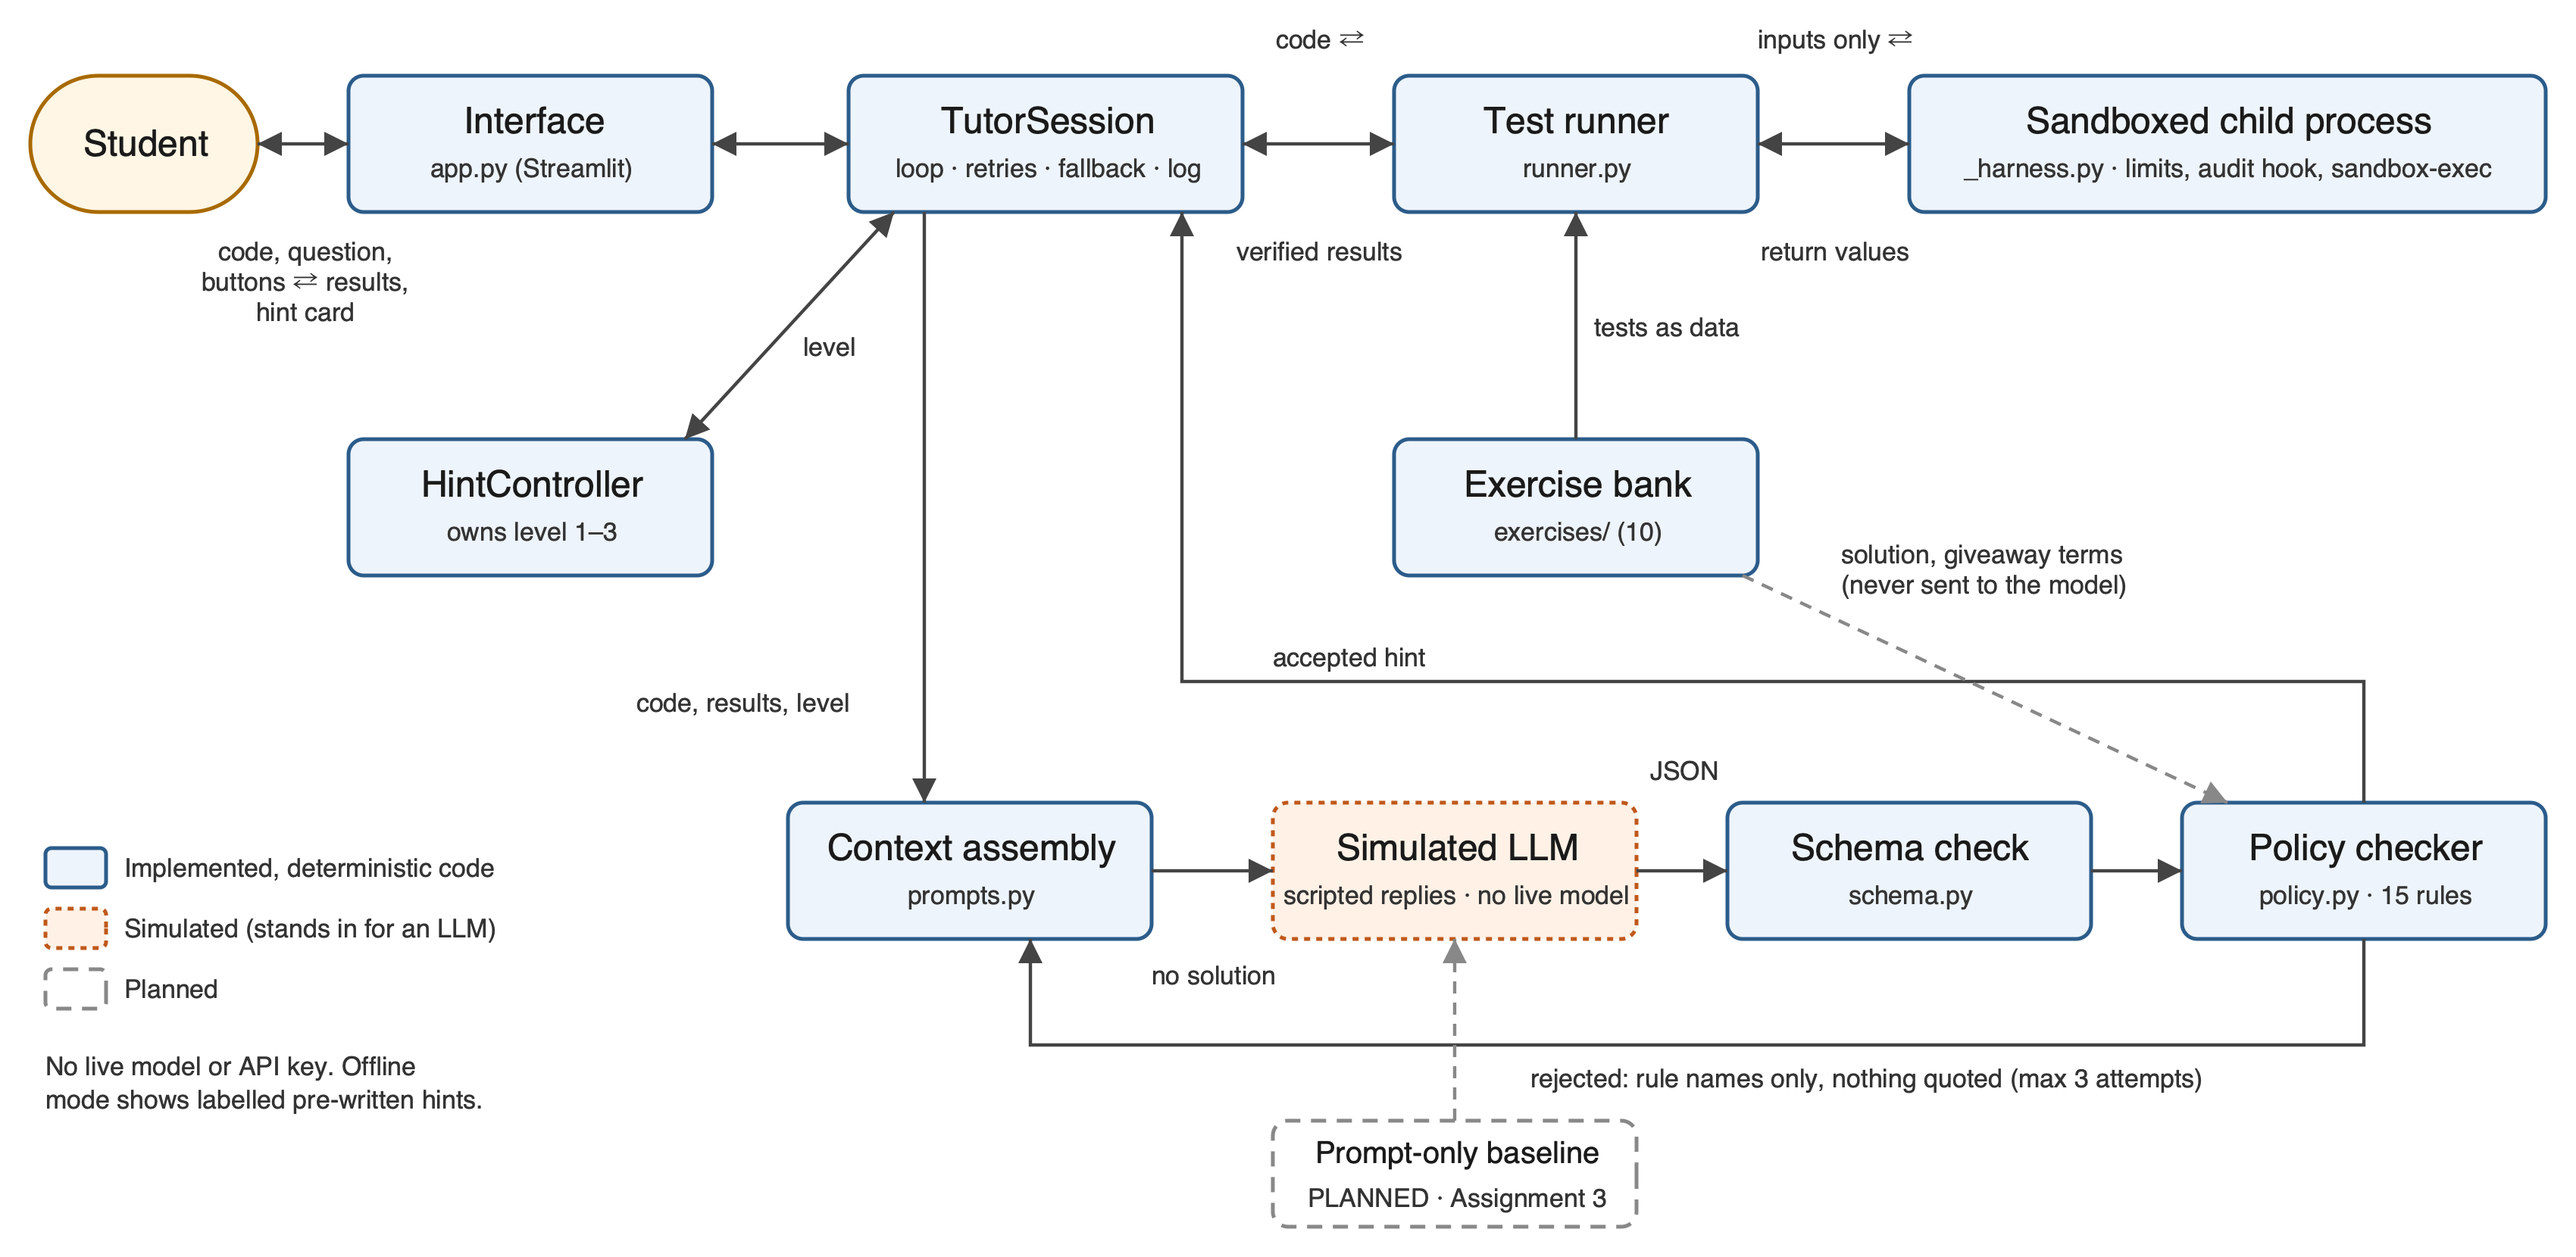
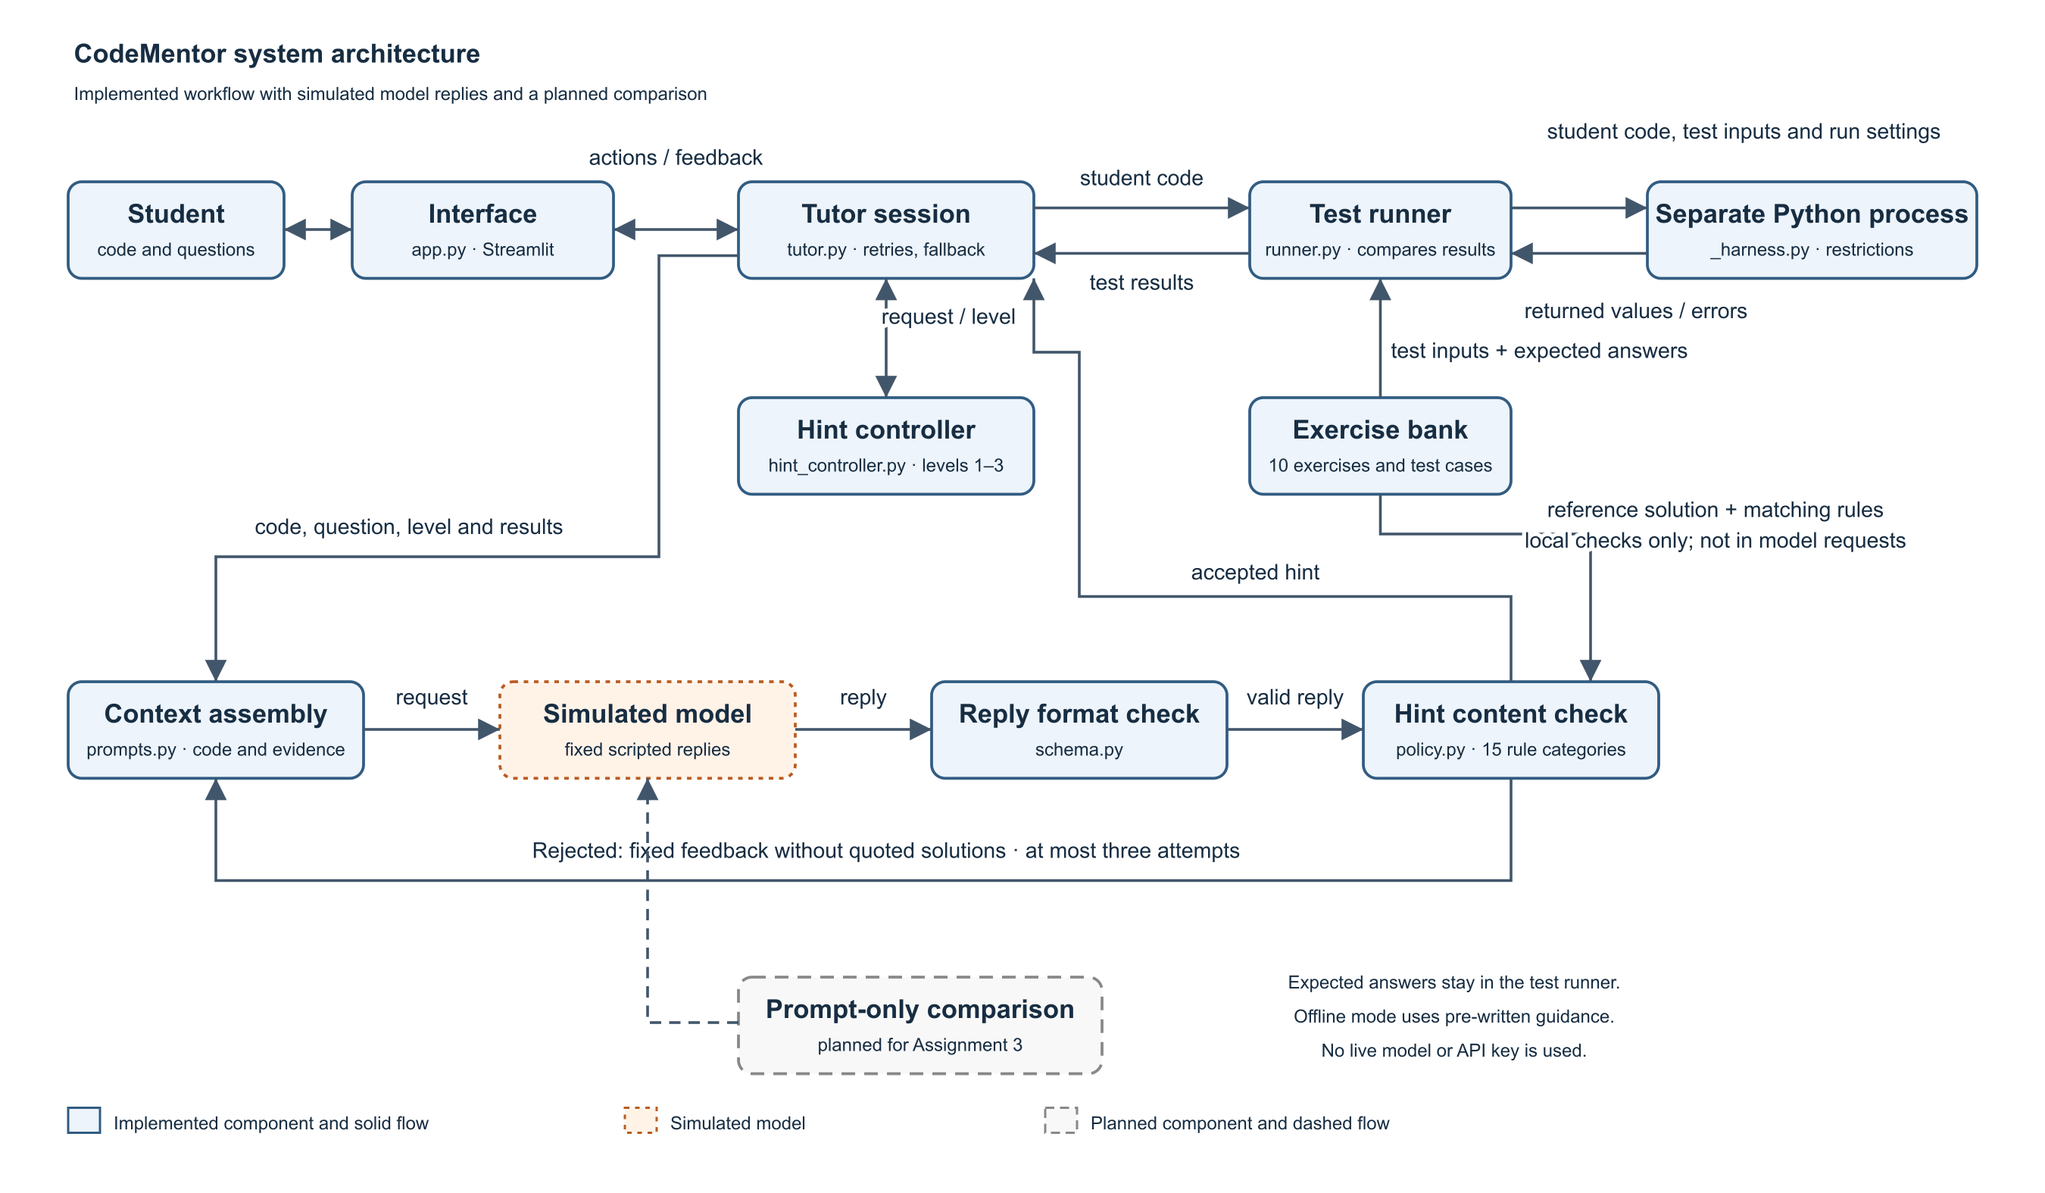
Clarify interface limits and align project documentation

diff --git a/app.py b/app.py
@@ -114,10 +114,10 @@ def render_hint(record: HintRecord, latest: bool) -> None:
         if record.student_message:
             st.markdown(f"🙋 **You asked:** {record.student_message}")
         if "solution_request" in record.policy_flags:
-            st.warning("🙅 CodeMentor doesn't give complete solutions, even when asked. "
+            st.warning("🙅 CodeMentor is designed to provide hints rather than complete solutions, but its checks may miss some disclosures. "
                        "You can ask for a more specific hint, or change your code and run the tests.")
         if "rule_override" in record.policy_flags:
-            st.warning("🔒 Messages can't change the hint level or the rules. The level only changes when you press the hint buttons.")
+            st.warning("🔒 Messages cannot override the hint rules. Use the buttons to request more detail; hints restart at Level 1 when the set of failing tests changes.")
         if record.source == SOURCE_SYSTEM:
             st.info(record.text)
             return
@@ -177,7 +177,7 @@ def main() -> None:
 
     with st.sidebar:
         st.markdown("## 🧭 CodeMentor")
-        st.caption("A Python debugging tutor that gives hints, not solutions.")
+        st.caption("A Python debugging tutor designed to guide you with hints.")
         by_id = {e.id: e for e in exercises}
         exercise = by_id[st.selectbox("Exercise", list(by_id), format_func=lambda i: f"{by_id[i].order}. {by_id[i].title}")]
         st.divider()

diff --git a/README.md b/README.md
@@ -2,7 +2,7 @@
 
 Code Mentors overall aim is a Python debugging tutor for beginners with three hint levels and execution results shown separately from AI interpretation. This Stage 3 snapshot includes the complete local prototype: exercises, test runner, hint checks, interface and repeatable demonstrations. Hints are pre-written or simulated using fixed replies.
 
-README prose word count: 1388 words (excludes fenced commands and the count line, includes headings/table text.)
+README prose word count: 1337 words (excludes fenced commands and the count line, includes headings/table text.)
 
 ## About this repository
 
@@ -62,33 +62,29 @@ The runner runs student code separately from the tutor and applies five checks a
 4. **Checks while running.** Python checks block selected actions including starting other programs and making network connections. File access is limited to the temporary run folder and files Python needs with an exception for the system file used to discard output. These checks do not provide complete protection against harmful code.
 5. **macOS protection.** The operating system adds restrictions on network access, launching other programs, changing files outside the temporary run folder and reading files in user home folders.
 
-## Development decisions
+## Development record
 
-- The expected answers are kept separate from the student code being run. The runner compares the returned answers with these expected results. This separation alone does not guarantee that deliberately harmful code cannot interfere with a result.
-- Tests check the restrictions by trying to launch another program, make a network connection, write a file and list user home folders.
-- The waiting time was shortened before stopping a test because code stuck in an endless loop took too long to report back.
+The prototype was developed locally before these imports. The commits group existing components; they do not represent the dates when each feature was first written.
 
-### Stage 2: hint controls and checks
+- [Stage 1](https://github.com/frontdev-arch/Code-Mentor/commit/d54cfbd): exercise bank and restricted runner; 18 tests passed.
+- [Stage 2](https://github.com/frontdev-arch/Code-Mentor/commit/3b03f05): hint levels, reply checks and exercise-bank tests; 135 tests passed.
+- [Stage 3](https://github.com/frontdev-arch/Code-Mentor/commit/970c068): interface, tutor workflow and scripted demonstrations; 159 tests passed.
 
-This import adds three components from the local prototype:
+The following records connect the main problems, decisions and checks. The named tests are in the linked files.
 
-- `codementor/hint_controller.py` manages three hint levels: concept, location and likely fault. More detail requires an explicit request. A change in which tests fail resets the next hint to the first level so that help does not carry over unchanged to a different problem.
-- `codementor/schema.py` checks that a reply contains the required information in the expected format. This catches incomplete or wrongly formatted replies before their content is checked.
-- `codementor/policy.py` checks hints for the requested level, solution disclosure, references to test results and unsupported claims. Rejection summaries avoid repeating text that could reveal an answer.
+| Problem and decision | Check and result |
+| --- | --- |
+| Student code could run indefinitely or access unrelated files. Runs were separated and restricted, with shorter waiting times to keep feedback responsive. | [Runner tests](tests/test_runner.py): `test_infinite_loop_times_out_per_test`, `test_runtime_layers_refuse_dangerous_operations` and `test_environment_secrets_are_not_visible_to_student_code` passed. These checks do not establish complete protection against malicious code. |
+| A reply could keep the correct level number while explaining too much. Wording checks were added and narrowed to allow useful Level 3 explanations. | [Policy tests](tests/test_policy.py): `test_level_meaning_is_checked_not_just_the_number` rejects the recorded examples; `test_level_3_may_still_explain_the_fault_and_suggest_a_direction` preserves an acceptable example. Both passed; other paraphrases may escape detection. |
+| Detailed rejection messages could repeat the solution to the student or in another model request. Fixed summaries replaced quoted offending text. | [Tutor tests](tests/test_tutor.py): `test_no_request_to_the_model_carries_the_solution_even_on_retries` and `test_rejection_shown_to_the_student_never_quotes_the_solution` passed. Detailed diagnostics remain in local logs. |
+| Citing a failing test could be mistaken for a correct diagnosis. The interface labels the citation separately and keeps the explanation unverified. | [Tutor tests](tests/test_tutor.py): `test_citing_a_failing_test_is_recorded_as_a_citation_not_as_support` passed. [The wrong-diagnosis demo](demo/wrong_diagnosis.json) deliberately shows this limitation. |
+| A hint could use old code, or retain too much detail after the problem changed. Code and questions are submitted together, changed code is tested again and changed failures reset the hint level. | [Tutor tests](tests/test_tutor.py): `test_changed_code_reruns_tests_before_the_hint` and `test_new_failing_set_resets_the_level` passed. Interface checks also exercised running code and requesting Levels 1–3 in offline and both scripted modes. |
 
-At the Stage 2 import, the expanded suite passed all 135 tests. It covers all ten exercise starters and reference solutions, pre-written hints, level changes and examples of acceptable and rejected replies. These checks make the components inspectable before the complete tutor workflow is imported.
+All 159 automated tests passed in the latest audit. These results cover the supplied cases, not every possible reply or user behaviour. No learner study has been carried out.
 
-### Stage 3: complete local interaction
+### Submission review corrections
 
-- `codementor/tutor.py` connects test results, hint levels and reply checks. It retries rejected replies and uses pre-written guidance when suitable replies are unavailable, so the interaction can continue.
-- `app.py` adds the interface. Code and questions are submitted together so a hint uses the current input. Test results appear separately from the tutor's interpretation. A reference to a failing test is labelled as a citation, not proof that the explanation is correct.
-- `codementor/providers.py` supplies fixed simulated replies, while `prompts.py` prepares the request information. Rejection feedback avoids repeating text that could reveal a solution.
-- `config.py` selects the mode and `eventlog.py` records runs and hint requests. Local records are saved in `logs/`, which Git ignores.
-- `demo/` includes a rejected solution followed by an acceptable hint, and a wrong diagnosis that cites a real failing test. These demonstrate both the checks and their limits.
-
-The complete suite passed **159 tests** after this import. Added tests cover retries, fallback hints, current-code checks, safe rejection feedback and both demonstration scripts. A separate interface smoke check loaded the app, ran an exercise and displayed a Level 1 hint. This is not a full usability evaluation.
-
-Earlier imports: [Stage 1](https://github.com/frontdev-arch/Code-Mentor/commit/d54cfbd) and [Stage 2](https://github.com/frontdev-arch/Code-Mentor/commit/3b03f05).
+The review found that two interface messages overstated solution prevention and omitted automatic level resets. The wording now explains both limits. The architecture diagram now uses solid arrows for implemented information flows and labels the student code, inputs and settings sent to the runner's separate process. The solution-request storyboard was refreshed to match the interface. These are presentation corrections; the underlying hint rules are unchanged.
 
 ## Report and illustrations
 
